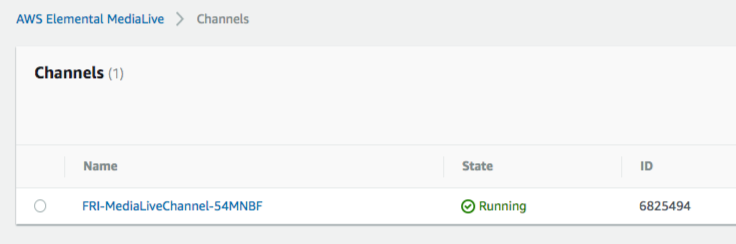
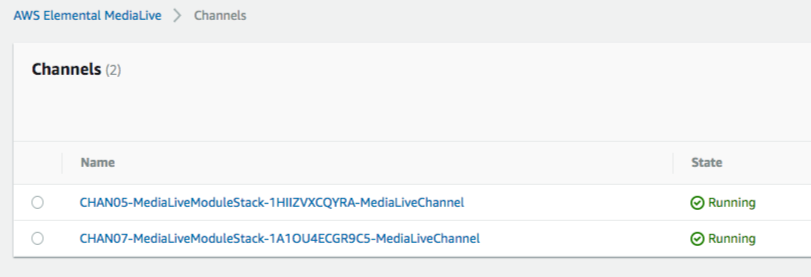
Update CloudFormation examples, naming notes

diff --git a/README.md b/README.md
@@ -19,7 +19,7 @@ This workshop includes an optional module for configuring AWS CloudWatch Metrics
 
 # AWS CloudFormation Templates
 
-CloudFormation templates are available if you would like to move faster or see the intended outcome of a single module or the entire lab. Resources created by AWS CloudFormation will have unique naming patterns, usually prefixed with the stack name, a short random string, followed by the resource name. See the following example for a AWS Elemental MediaLive channel created with these templates. The stack name **FRI** specified by the user is prefixed to the channel name.
+CloudFormation templates are available if you would like to move faster or see the intended outcome of a single module or the entire lab. Resources created by AWS CloudFormation will have unique naming patterns so that the same template can be used multiple times in teh same account and region without conflicting resource names. Resource names are prefixed with the stack name, template name, a short random string, and followed by the resource name. See the following example for a AWS Elemental MediaLive channel created with these templates. The stack name **FRI** specified by the user is prefixed to the channel name.
 
 ![alt](cfn-resource-naming.png)
 
